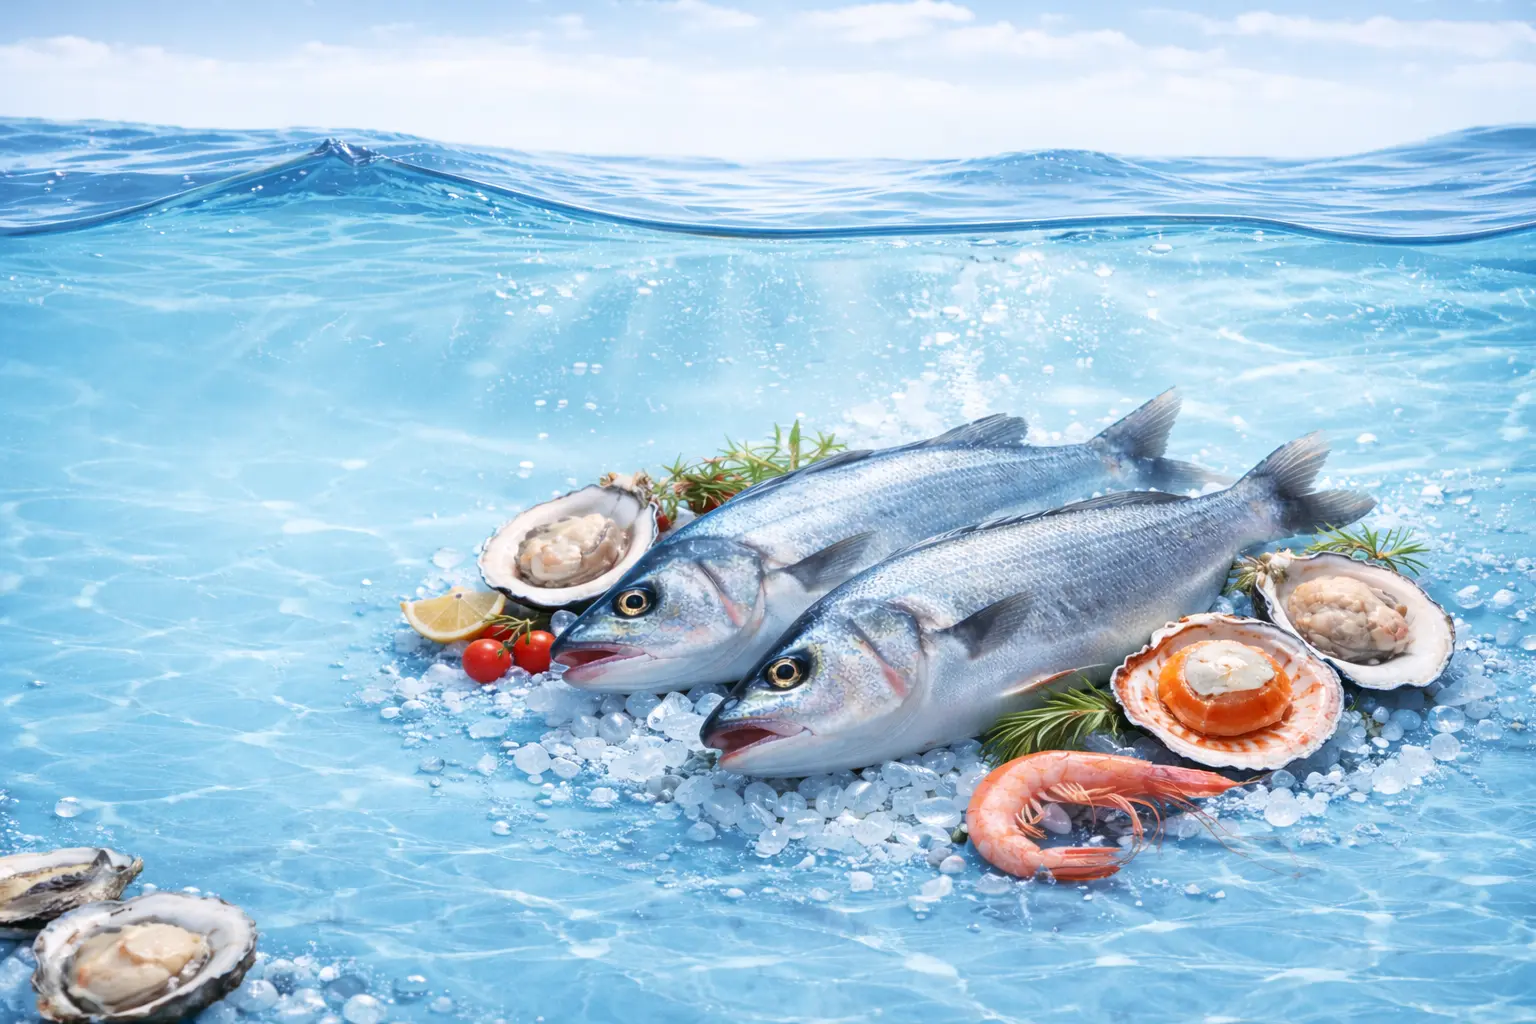
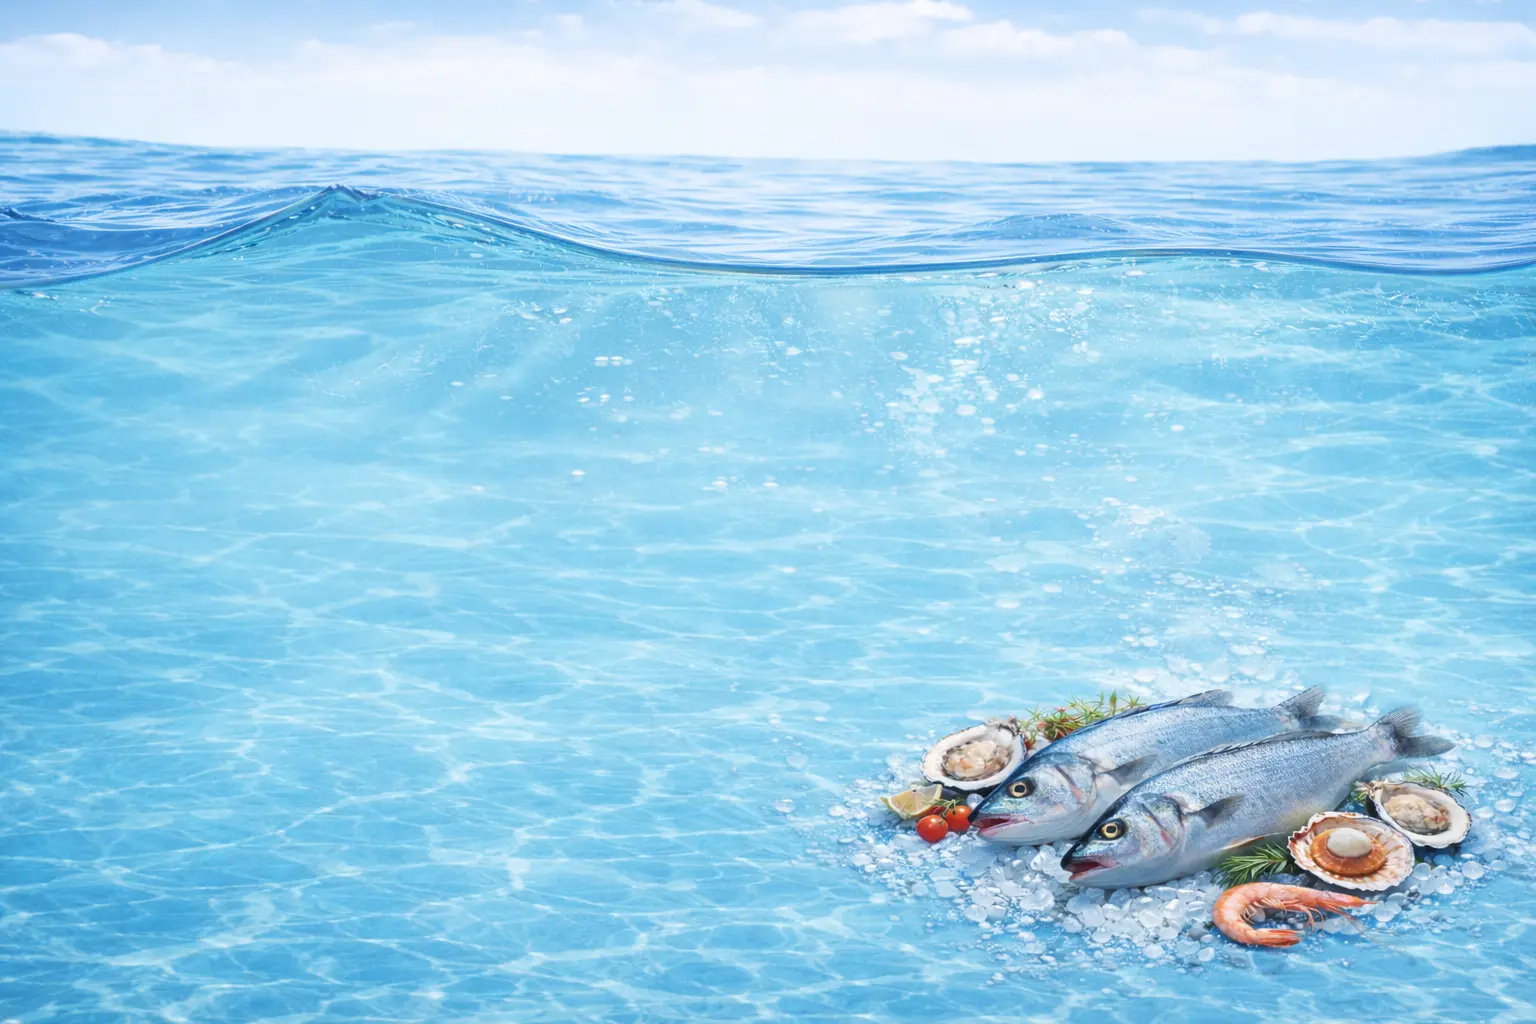
working on the about and footer page

diff --git a/omega-landing/src/app/(defaultLayout)/about/page.jsx b/omega-landing/src/app/(defaultLayout)/about/page.jsx
@@ -1,8 +1,6 @@
 import BreadCumb from '@/app/Components/Common/BreadCumb';
 import CtaBanner1 from '@/app/Components/CtaBanner/CtaBanner1';
-import CtaBanner3 from '@/app/Components/CtaBanner/CtaBanner3';
 import Gallery1 from '@/app/Components/Gallery/Gallery1';
-import Team3 from '@/app/Components/Team/Team3';
 import Testimonial2 from '@/app/Components/Testimonial/Testimonial2';
 import React from 'react';
 
@@ -14,8 +12,6 @@ const page = () => {
                 Title="About Us"
             ></BreadCumb>
             <CtaBanner1></CtaBanner1>
-            <Team3></Team3>
-            <CtaBanner3></CtaBanner3>
             <Testimonial2></Testimonial2>
             <Gallery1></Gallery1>            
     </div>

diff --git a/omega-landing/src/app/assets/main.css b/omega-landing/src/app/assets/main.css
@@ -7770,7 +7770,7 @@ input.main-search-input::placeholder {
   position: relative;
   background-color: #79a1bb;
   background-image: url(/assets/img/bg/ctaBG1_1.jpg);
-  background-position: calc(80% + 60%) center;
+  background-position: bottom;
   background-size: cover;
   background-repeat: no-repeat;
 }
